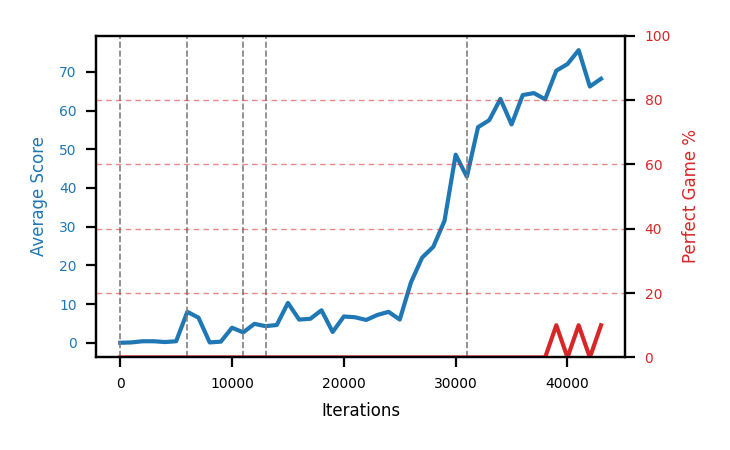
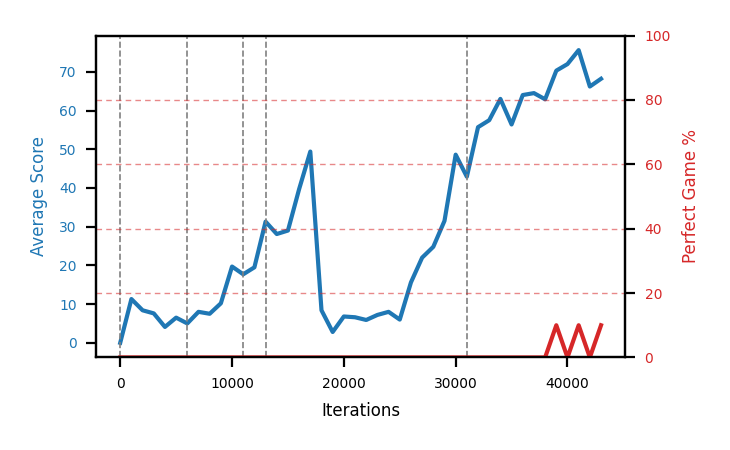
Env audit: fix six bugs in the food, grid and reward paths
Two of these change the observation and one changes the reward, so nothing
measured before this commit is comparable to anything measured after it. The
92% champion re-measures 21/30 against 27/30 on the old env - it was trained to
read features whose meaning changed. That was the accepted cost of the audit.

group_obs now accounts for the tail moving. update_grid marked the prospective
head cell as occupied but never freed the tail cell, so connectivity was
computed as though the tail were a wall and any region reachable only through
the tail read as sealed off. Measured against the champion over 20,814 steps:
num_groups wrong on 12.1% of steps overall and 40.0% past score 80, and
head_with_tail flipped on 258 occasions, every one of them 0 -> 1. The error was
a pessimism bias concentrated in the endgame. The clear has to be conditional:
on a move that eats, add_segment refills the tile the tail came from, which is
why the original line was commented out rather than absent.

reset() and step() now share _rebuild_grid(). reset() built a (10, 10) of zeros
with no border, snake or food while step() builds a (12, 12) with walls, so
every episode's opening observation used an empty, wrongly-shaped grid. It
produced the same 20 numbers only because the snake starts mid-board; with the
tail near an edge it raises IndexError out of get_grid_number().

Rewards are now exact. The distance penalty compared the eaten food against its
[…]

Changed region(s): [[0.1507, 0.3422, 0.4521, 0.7778]]

diff --git a/snek2/Snake.py b/snek2/Snake.py
@@ -150,9 +150,6 @@ class Game:
         self.taken_up_group = pygame.sprite.Group()
 
         self.all = pygame.sprite.RenderUpdates()
-        column = SCREENSIZE[0] / TILE_SIZE[0]
-        row = SCREENSIZE[1] / TILE_SIZE[1]
-        self.grid = np.zeros((int(row), int(column)))
         self.snake = SnakeHead(START_TILE, 'right', [self.snake_group, self.all, self.taken_up_group])
         self.snake_head_group.add(self.snake)
         self.head = self.snake
@@ -168,6 +165,16 @@ class Game:
         self.current_score = 0
         self.current_step = 0
         self.last_food_step = 0
+
+        # The first observation of an episode is read straight after reset(), so the grid has
+        # to be built here too. reset() used to build its own — a bare (10, 10) of zeros with
+        # no border, no snake and no food — while step() builds a (12, 12) with wall cells.
+        # Every episode's opening observation was therefore computed against an empty,
+        # wrongly-shaped grid. It happened to produce the same 20 numbers because the snake
+        # always starts mid-board with all three moves open, but it is not robust: with the
+        # tail near an edge the smaller array raises IndexError out of get_grid_number(),
+        # which bounds-checks against SCREENTILES + 1 and so assumes the (12, 12) form.
+        self._rebuild_grid()
 
         # turn screen to white
         pygame.display.flip()
@@ -207,7 +214,46 @@ class Game:
         self.tail.behind_segment.front_segment = self.tail
         self.tail = self.tail.behind_segment
 
+    def _rebuild_grid(self):
+        """Rewrites self.grid from the current snake and food positions.
+
+        Cell values: 0 empty, 1 food, 2 head, 3 body, 4 wall. The array is two cells wider
+        and taller than the board so the outer ring can hold the walls, which is why every
+        lookup offsets by +1 — see get_grid_number()/get_grid_value() in state_helpers.
+
+        Shared by reset() and step() on purpose. These were two separate copies that
+        disagreed on the shape, and the observation code assumes the bordered form.
+        """
+        column = SCREENSIZE[0] // TILE_SIZE[0]
+        row = SCREENSIZE[1] // TILE_SIZE[1]
+        self.grid = np.zeros((row + 2, column + 2))
+        self.grid[[0, -1], :] = 4
+        self.grid[:, [0, -1]] = 4
+
+        # 1 is food
+        if self.current_food != 'no food':
+            self.grid[self.current_food.position[1] + 1, self.current_food.position[0] + 1] = 1
+
+        body_positions = self.snake.get_positions()
+        for i in range(0, len(body_positions)):
+            position = body_positions[i]
+            if i == 0:
+                # 2 is head
+                self.grid[position[1] + 1, position[0] + 1] = 2
+            else:
+                if not (position[1] < 0 or position[0] < 0):
+                    # 3 is body part
+                    self.grid[position[1] + 1, position[0] + 1] = 3
+
     def step(self, relative_direction):
+        # Counted up front so `current_step` already includes this step when it is compared
+        # against `last_food_step` below. These used to be incremented near the end, after
+        # the food block had set `last_food_step = current_step`, which left
+        # `current_step - last_food_step == 1` on the step immediately after eating and so
+        # docked one step from every starve budget.
+        self.current_step += 1
+        self.total_steps += 1
+
         if self.current_food != 'no food':
             old_moves_to_food = distance_to_food(self.head.tile_pos, self.current_food.position)
         else:
@@ -226,7 +272,8 @@ class Game:
 
         # head -> food
         col = pygame.sprite.groupcollide(self.snake_head_group, self.food_group, False, True)
-        if len(col) > 0:
+        ate_food = len(col) > 0
+        if ate_food:
             self.current_food = 'no food'
             self.add_segment()
             self.current_score += 1
@@ -242,27 +289,7 @@ class Game:
             self.taken_up_group.add(self.current_food)
             self.all.add(self.current_food)
 
-        column = SCREENSIZE[0] / TILE_SIZE[0]
-        row = SCREENSIZE[1] / TILE_SIZE[1]
-        self.grid = np.zeros((int(row + 2), int(column + 2)))
-        self.grid[[0, -1], :] = 4
-        self.grid[:, [0, -1]] = 4
-
-        body_positions = self.snake.get_positions()
-
-        # 1 is food
-        if self.current_food != 'no food':
-            self.grid[self.current_food.position[1] + 1, self.current_food.position[0] + 1] = 1
-
-        for i in range(0, len(body_positions)):
-            position = body_positions[i]
-            if i == 0:
-                # 2 is head
-                self.grid[position[1] + 1, position[0] + 1] = 2
-            else:
-                if not (position[1] < 0 or position[0] < 0):
-                    # 3 is body part
-                    self.grid[position[1] + 1, position[0] + 1] = 3
+        self._rebuild_grid()
 
         # checks out of bounds
         pos = self.snake.rect.topleft
@@ -287,9 +314,6 @@ class Game:
             self.finished = True
             reward = DEATH_REWARD
 
-        self.current_step += 1
-        self.total_steps += 1
-
         # game over
         if self.check_perfect_game():
             self.finished = True
@@ -302,7 +326,16 @@ class Game:
             self.starved = True
             reward = STARVE_REWARD
 
-        if self.current_food != 'no food':
+        # Distance shaping, and only for an ordinary move. Skipped when this step ate,
+        # because `old_moves_to_food` measures the food that was just consumed while
+        # `current_food` is already its randomly placed replacement — comparing the two
+        # is meaningless, and since the head had to be adjacent to eat, old_moves_to_food
+        # is always 1 and the replacement is almost never that close. The penalty
+        # therefore fired on 96.8% of food-eating steps (measured over 4825), quietly
+        # making every FOOD_REWARD 0.999. Skipped when the episode ended for the same
+        # reason: on a death the head is off the board, so the comparison is noise on top
+        # of DEATH_REWARD.
+        if not ate_food and not self.finished and self.current_food != 'no food':
             moves_to_food = distance_to_food(self.head.tile_pos, self.current_food.position)
             if moves_to_food > old_moves_to_food:
                 reward -= FOOD_DISTANCE_REWARD

diff --git a/snek2/state_helpers.py b/snek2/state_helpers.py
@@ -191,9 +191,24 @@ def distance_to_food(start_pos, food_pos):
 
 
 def update_grid(action, head_pos, tail_pos, grid, head_move_dir):
-    # add test for this: when move eats a food, the tail doesn't move, could add food pos here for that
-    # set_number(grid, tail_pos, 0)
-    set_number(grid, get_relative_pos(action, head_pos, head_move_dir), 3)
+    """Applies a candidate move to a copy of the grid, for the connectivity observations.
+
+    The tail tile is freed, because the snake advances as a whole and the tail vacates its
+    tile on the same step the head takes a new one. Leaving it occupied — which is what this
+    did before — computes connectivity as though the tail were a wall, so a region reachable
+    only through the tail reads as sealed off. Measured against the 92% policy, that made
+    num_groups wrong on 12.1% of steps overall and 40.0% of steps past score 80, and turned
+    head_with_tail from 1 to 0 on 258 occasions, always in the pessimistic direction.
+
+    The exception is a move that eats: add_segment() then refills the tile the tail came
+    from, so it stays occupied and must not be cleared. That case is why the original line
+    was commented out rather than simply absent.
+    """
+    new_head_pos = get_relative_pos(action, head_pos, head_move_dir)
+    eats_food = get_grid_value(new_head_pos, grid) == 1   # read before mutating
+    if not eats_food:
+        set_number(grid, tail_pos, 0)
+    set_number(grid, new_head_pos, 3)
     return grid
 
 

diff --git a/snek2/snake_constants.py b/snek2/snake_constants.py
@@ -18,7 +18,7 @@ STARVE_REWARD = -0.5
 global PERFECT_GAME_REWARD
 PERFECT_GAME_REWARD = 100
 global PERFECT_GAME_WAIT_MS
-PERFECT_GAME_WAIT_MS = 5000
+PERFECT_GAME_WAIT_MS = 500
 
 # Below this average score, an eval's checkpoint is not written at all. Set from
 # SNEK_MIN_CHECKPOINT_SCORE in snek2.py. `max_to_keep` is a rolling window, so a dead arm
@@ -29,9 +29,6 @@ PERFECT_GAME_WAIT_MS = 5000
 global MIN_CHECKPOINT_SCORE
 MIN_CHECKPOINT_SCORE = 40.0
 MAX_STEPS_BEFORE_STARVE_SIZE_MULTIPLIER = 10
-
-CLOSER_TO_FOOD_REWARD_SCORE_LIMIT = 10
-CLOSER_TO_FOOD_REWARD_STEP_LIMIT = 20000
 
 # size of each grid
 TILE_SIZE = (10, 10)
@@ -66,10 +63,12 @@ FPS_LIMIT = 15
 SCORE_SLOW_THRESHOLD = 248
 SCORE_THRESHOLD_FPS = 10
 
-SCREENTILES = (
-    (SCREENSIZE[0] / TILE_SIZE[0]) - 1,
-    (SCREENSIZE[1] / TILE_SIZE[1]) - 1
-)
+# SCREENTILES used to be recomputed here as
+# `(SCREENSIZE[0] / TILE_SIZE[0]) - 1`, a round trip through SCREENSIZE that returned the
+# same tile count but as a *float*. That made `random.randint(0, 9.0)` in Food.__init__
+# raise a DeprecationWarning on Python 3.10 and a TypeError on 3.12+, so it blocked any
+# interpreter upgrade. The tuple defined above from GRID_LENGTH is already correct and
+# integral, so the recomputation is gone.
 
 PERFECT_SCORE = (SCREENTILES[0] + 1) * (SCREENTILES[1] + 1)
 # highest food-eaten count reachable before a perfect game triggers

diff --git a/snek2/hyperparamTuning/findings.md b/snek2/hyperparamTuning/findings.md
@@ -10,7 +10,8 @@ section before proposing an epsilon or buffer experiment.
 
 | finding | status |
 |---|---|
-| **The record is 92% perfect games** (`b8f-disc9975seed2` @2816k, `DISCOUNT=0.9975`) | **measured**, 92/100 episodes |
+| **Observations and rewards changed 2026-08-01 — nothing before that line is comparable** | **breaking**, 6 env bugs fixed |
+| **The record is 92% perfect games** (`b8f-disc9975seed2` @2816k, `DISCOUNT=0.9975`) | **measured**, 92/100 episodes, **old env** |
 | **An arm has a lifetime: peak ~2.5-3M steps, dead by ~7M** | **established**, 2 arms followed to the end |
 | **The horizon was the binding constraint** — records live past 2.5M, old arms stopped at ~1.06M | **established** |
 | A 100% single graph eval is the only graph value with a usable floor | **measured**, 9 of 9 above 64% |
@@ -43,6 +44,75 @@ section before proposing an epsilon or buffer experiment.
 | n-step returns help | **falsified**, n=2 and n=3 |
 
 ---
+
+## Environment audit 2026-08-01: observations and rewards both changed
+
+**Nothing measured before 2026-08-01 is comparable to anything measured after it.** Six
+environment bugs were fixed in one pass. Two of them change what the agent sees, one changes
+what it is paid, and one changes how long it may go without food — so every arm in
+`completedRuns.md`, every number in this file, and the `hallOfFame` entries were produced by a
+*different* MDP than the one that runs now. Re-baseline before comparing anything across that
+line.
+
+| # | fix | changes | measured effect of the bug |
+|---|---|---|---|
+| 1 | `reset()` built a `(10, 10)` unbordered grid; `step()` builds `(12, 12)` with walls | observation | 0 of 500 first-observations differed numerically; latent `IndexError` |
+| 2 | Distance shaping compared the eaten food to its replacement | reward | fired on 96.8% of eat steps (n=4825), making `FOOD_REWARD` 0.999 |
+| 3 | `SCREENTILES` were floats, so `random.randint(0, 9.0)` | neither | `DeprecationWarning` on 3.10, `TypeError` on 3.12+ |
+| 4 | `last_food_step` set before the step counter incremented | starve budget | every budget was short by one step |
+| 5 | `CLOSER_TO_FOOD_REWARD_*` unused | neither | dead code |
+| 6 | `update_grid` never freed the tail tile | **observation** | `num_groups` wrong on 12.1% of steps, 40.0% past score 80 |
+
+#### #6 is the one that matters
+
+`group_obs` simulates each candidate move to report how fragmented the free space is and
+whether the head can still reach its tail. It marked the prospective head cell as occupied but
+never freed the tail cell, so connectivity was computed as though the tail were a wall and any
+region reachable only *through* the tail read as sealed off. Measured against the 92% policy
+over 20,814 steps:
+
+| score | steps | `head_with_tail` differs | `num_groups` differs |
+|---|---|---|---|
+| 0-19 | 3,543 | 1.1% | 2.8% |
+| 20-39 | 6,826 | 0.6% | 4.5% |
+| 40-59 | 5,110 | 0.7% | 15.9% |
+| 60-79 | 3,299 | 1.6% | 14.8% |
+| **80-99** | 2,036 | **3.5%** | **40.0%** |
+
+All 258 `head_with_tail` flips were `0 → 1` — the feature only ever claimed the snake was
+trapped when it was not, never the reverse. The error was therefore a **pessimism bias**, and
+it concentrated in the endgame, where free space is a thin channel and one cell is much more
+likely to be the bridge between two regions.
+
+The fix has to be conditional: on a move that eats, `add_segment()` refills the tile the tail
+came from, so it stays occupied. Verified over 39,684 steps — 5,068 eat steps always kept the
+old tail tile as body, 34,616 non-eat steps always freed it. That conditional is why the
+original line was commented out rather than missing, so this was a parked trade-off, not an
+oversight.
+
+#### Rewards are now exact
+
+Before, an eaten food usually paid 0.999 and a death usually cost 5.001. All four terminal
+outcomes are now exactly their constants, verified by playing until each occurred:
+
+| outcome | reward | episodes checked |
+|---|---|---|
+| ate food | `1.0` | 400 games, only value seen |
+| died | `-5.0` | 400 games, only value seen |
+| starved | `-0.5` | 398 starve episodes |
+| perfect game | `100` | 199, with the threshold patched to score 5 to reach the branch |
+
+The shaping penalty now applies only to an ordinary surviving move, so it can no longer
+contaminate a terminal reward.
+
+#### What this cost
+
+The 92% champion re-measured **21/30 (70.0%)** on the new environment, against 27/30 (90.0%)
+on the old one. Those two intervals overlap at n=30, so treat the size of the drop as
+unresolved — but the direction is what you would expect from a policy reading two features
+whose meaning changed underneath it. **This is not evidence the fixes are harmful.** It says
+the champion is off-distribution, which was the accepted price of the audit. Whether the
+corrected observations train *better* is untested and needs a fresh arm.
 
 ## `DISCOUNT=0.995` matches the best ceiling and removes the death risk
 

diff --git a/snek2/hallOfFame/README.md b/snek2/hallOfFame/README.md
@@ -20,6 +20,16 @@ rotation and are not deleted by anything.
 "Perfect rate" is the share of episodes where the snake fills the board, over 100 greedy episodes
 each; see [`../hyperparamTuning/findings.md`](../hyperparamTuning/findings.md).
 
+> **These rates were measured on the pre-2026-08-01 environment and will not reproduce.** An env
+> audit that day fixed six bugs, two of which changed the observation (the tail is now freed when
+> the connectivity features are computed, and `reset()` builds the same bordered grid as `step()`)
+> and one of which changed the reward. These policies were trained to read the old features, so
+> they are now off-distribution. `ckpt2816000` re-measured **21/30** afterwards against 27/30
+> before. The entries are kept because they are the record *as achieved*, not because they still
+> score that — see the audit section in `findings.md`. Anything measured from here on belongs to
+> the new baseline, so do not put a new row in the table above next to an old one without
+> labelling which environment produced it.
+
 **`ckpt2816000` won 92 of 100 games** and is the project record, found in the close-out measurement
 of `b8f` on 2026-08-01. It re-measured at 25/30 during the restore verification for this folder,
 consistent with 92/100.

diff --git a/snek2/hyperparamTuning/runs.md b/snek2/hyperparamTuning/runs.md
@@ -488,6 +488,16 @@ The durable record is `runs/<policy>_evals.json`; analyse from there.
 `0.995` or `0.9975`: 0.9975 holds the record (92%) but is **1 of 2** on survival, while 0.995 is 3
 of 3 with a lower ceiling. Two more 0.9975 seeds decide it.
 
+> **The environment changed on 2026-08-01 and batch 9 has not been re-baselined.** Six env bugs
+> were fixed; two of them alter the observation and one alters the reward, so the 92% / 1-of-2
+> figures above were produced by a different MDP than the one batch 9 would run in. See
+> [the audit section in `findings.md`](findings.md#environment-audit-2026-08-01-observations-and-rewards-both-changed).
+> The discount comparison is still the right question and the arms below are still the right
+> arms — but their results are a **new baseline**, not a continuation of batch 8's, and the
+> survival counts restart at n=0. The audit is also unfinished by intent, so expect further env
+> changes before launch; each one resets this line again. Do not launch mid-audit and then
+> compare across it.
+
 | policy | override on top of the shared base | role |
 |---|---|---|
 | `b9a-disc9975seed3` | `SNEK_DISCOUNT=0.9975` | third 0.9975 seed — takes it to n=3 |

diff --git a/snek2/runs/smoke.md b/snek2/runs/smoke.md
@@ -44,8 +44,8 @@ Training was resumed at step 0, 6000, 11000, 13000, 31000 (the dashed lines on t
 | step | avg score | trailing avg | min score | max score | avg reward | perfect % | epsilon |
 |---|---|---|---|---|---|---|---|
 | 0 | 0.0 | 0.0 | 0 | 0/95 | -5.001 | 0 | 0.4 |
-| 1000 | 0.1 | 0.1 | 0 | 1/95 | -4.908 | 0 | 0.4 |
-| 2000 | 0.4 | 0.25 | 0 | 1/95 | -4.607 | 0 | 0.4 |
+| 1000 | 11.3 | 11.3 | 0 | 14/95 | 6.219 | 0 | 0.2 |
+| 2000 | 8.4 | 9.85 | 2 | 14/95 | 3.321 | 0 | 0.2 |
 | ... | | | | | | | |
 | 32000 | 55.7 | 55.7 | 0 | 77/95 | 52.753 | 0 | 0.01 |
 | 33000 | 57.5 | 56.6 | 19 | 80/95 | 55.274 | 0 | 0.01 |
